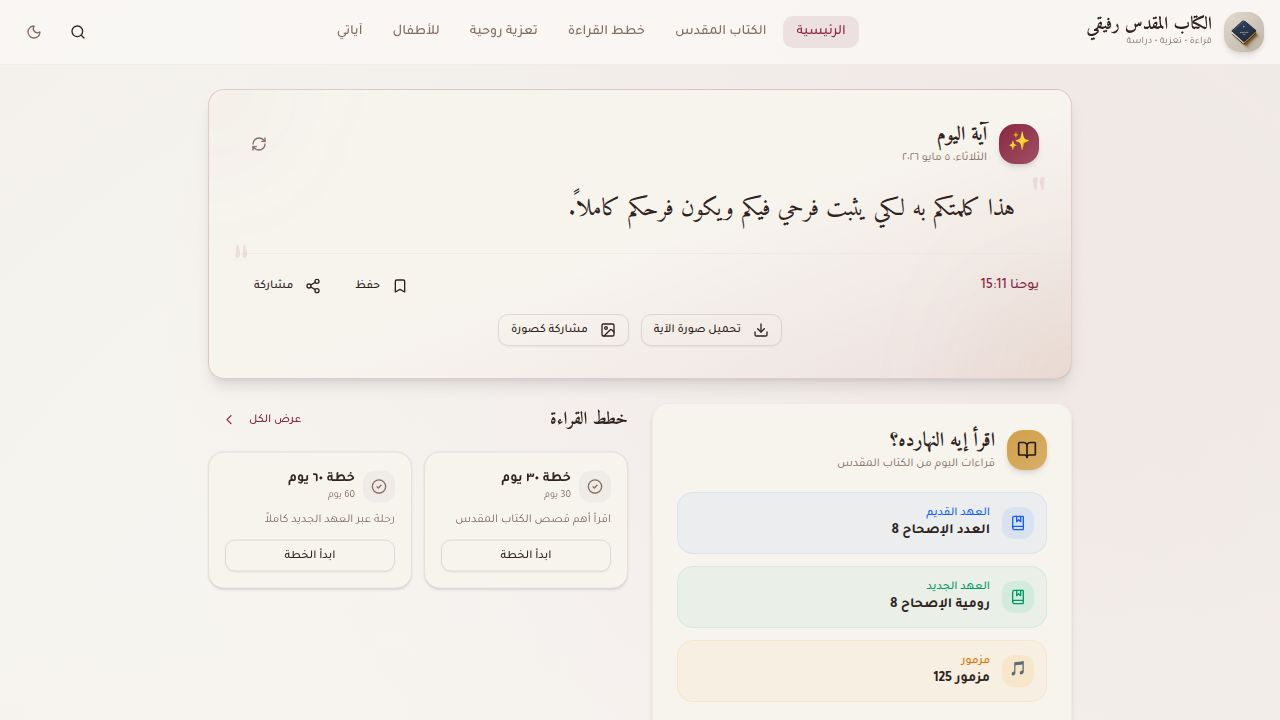
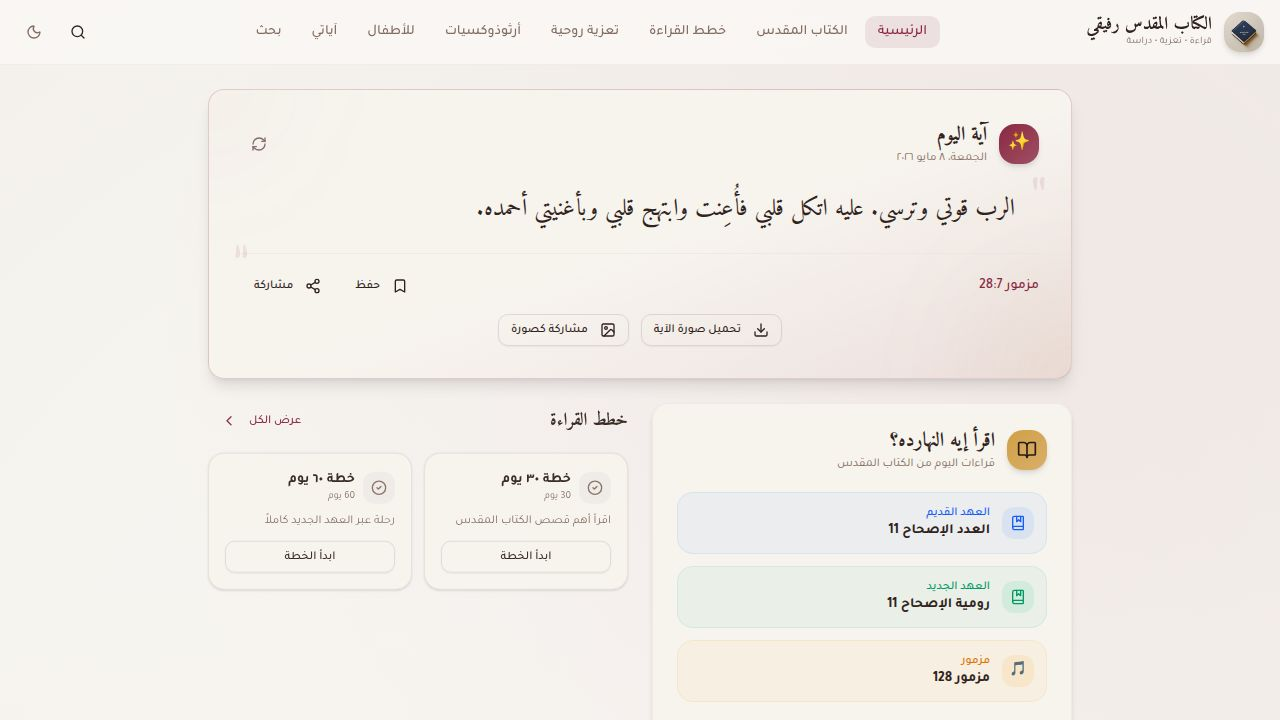
Update Ezekiel chapter videos to new YouTube playlist
Replaces existing YouTube video links for Ezekiel chapters 10-48 in `client/src/lib/video-links-data.ts` with new ones from the provided playlist.

Replit-Commit-Author: Agent
Replit-Commit-Session-Id: 82019d83-359a-418e-94ba-0a5026f94a02
Replit-Commit-Checkpoint-Type: full_checkpoint
Replit-Commit-Event-Id: 2a491626-0670-4e92-950a-349d3bba4509
Replit-Commit-Screenshot-Url: https://storage.googleapis.com/screenshot-production-us-central1/bd870c68-59ca-493f-81b5-0a8fe260977e/82019d83-359a-418e-94ba-0a5026f94a02/LzFRfRM
Replit-Helium-Checkpoint-Created: true

diff --git a/client/src/lib/video-links-data.ts b/client/src/lib/video-links-data.ts
@@ -843,45 +843,45 @@ export const videoLinks: VideoLinksMap = {
     7: "-T7nJ6YGQ2M",
     8: "j716lUXC9mg",
     9: "vFqiAis2Zuo",
-    10: "1_olTSKeSl8",
-    11: "g1V7Ejje4Ug",
-    12: "vmVdgOQEKlc",
+    10: "yBXAOvmU4wE",
+    11: "TayKkP__OMc",
+    12: "Cdf1asuVyP0",
     13: "6xEFD-KOZ4I",
-    14: "vHsQpNkYNpE",
+    14: "R7_Vr3hlW1o",
     15: "9C8d5UU8pgE",
     16: "ZnOkUaLsy34",
     17: "jpx4RHcX4gs",
     18: "rAiAvXOdZt4",
     19: "Q4tN65wY-0g",
-    20: "sfXFLUr_ngU",
-    21: "NEkCI8x-USU",
-    22: "PwfvHvAOL68",
-    23: "myc2a3QkLAs",
-    24: "LST3E8DzXoU",
-    25: "T24CsV0EAy4",
-    26: "_wpS9bBi-jM",
-    27: "AKuym4t1Qk8",
-    28: "tCmKSD8INVY",
-    29: "VteOTvrhZmE",
-    30: "o8IEesKV4tE",
-    31: "Bm8yAPIr3fE",
-    32: "U_pRAj4jXKs",
-    33: "HcUgNdUnm30",
-    34: "98YI3eSz7aM",
-    35: "wMwcNEwNgQc",
-    36: "Q5JC3ex2Oeg",
-    37: "E-3i6XDEAEQ",
-    38: "THxjoehNHXA",
-    39: "tsprONEPrsY",
-    40: "S9ahEo4vQy0",
-    41: "KVaaXsNGq50",
-    42: "umW0pFZ5P0I",
-    43: "dfS0M9TzTEA",
-    44: "M72i0lIODIk",
-    45: "jSlaFn5k9Bk",
-    46: "6HdzV03CFCc",
-    47: "JcTV6vPUEYc",
-    48: "a1kCgn7kusA",
+    20: "WFygGGb-INU",
+    21: "GGVbkGWRW4A",
+    22: "Mt15iyVMefY",
+    23: "-VVk5GnJZrk",
+    24: "KXgGwn9UC34",
+    25: "jOdh8uc2-f4",
+    26: "kPnNRu9OFuk",
+    27: "hmfeKti1XCk",
+    28: "zGunh9jpn40",
+    29: "3LEGrrtumFA",
+    30: "UNqHVepzaWM",
+    31: "EvVBstWJnww",
+    32: "bKcy9QCEXlo",
+    33: "mqqRul3tN0U",
+    34: "1xUlgXmeXoM",
+    35: "O_gt_-rQ86Q",
+    36: "HqNhpOM_KzY",
+    37: "maAyTmQ8h4M",
+    38: "4CkiOkVioyo",
+    39: "JcTV6vPUEYc",
+    40: "0jemcXzVdpA",
+    41: "YhDy_ba6NcI",
+    42: "l3hbCu0kDKI",
+    43: "KVaaXsNGq50",
+    44: "7hqrmel_ZHc",
+    45: "p9o4IvIdap4",
+    46: "M72i0lIODIk",
+    47: "l86ABxS11zg",
+    48: "WUG9ZsoGkho",
   },
   "دانيال": {
     1: "AcfrQJnvGzI",